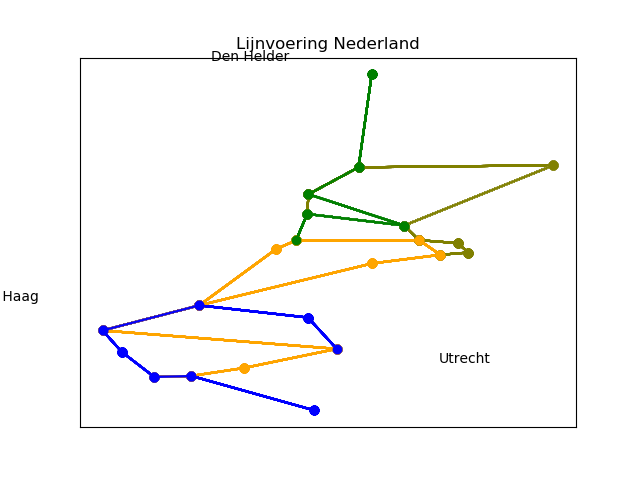
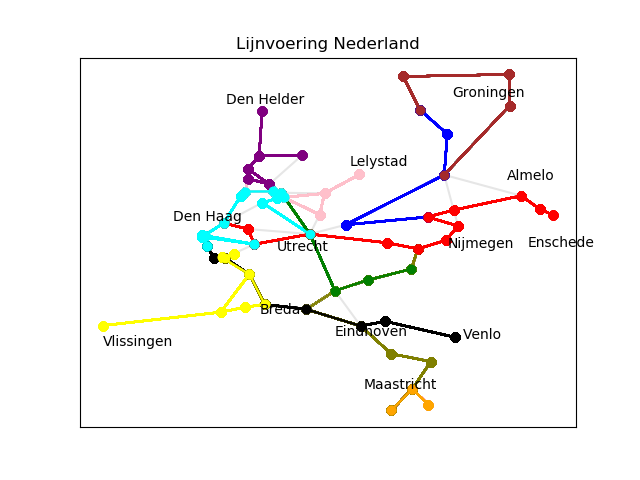
'h'

diff --git a/RailNL/Code/algo/trajectmaker.py b/RailNL/Code/algo/trajectmaker.py
@@ -29,7 +29,7 @@ def traject_maker(RANGE, MAX, stations, verbindingen, uithoeken, graph, TOTAAL_S
     for i in range (RANGE):
         
         # Kies het start station. 
-        START = algo.start.kies_start(sporen, verbindingen, uithoeken, trajecten_algemeen, stations)
+        START = algo.start.kies_start3(sporen, verbindingen, uithoeken, trajecten_algemeen, stations)
         z = START
         
         trein = functies.functies.Trein([START], [START], [z], 0)    
@@ -43,7 +43,7 @@ def traject_maker(RANGE, MAX, stations, verbindingen, uithoeken, graph, TOTAAL_S
 
             else:
                 # Beste optie kiezen aan de hand van de mogelijkheden.
-                beste_optie = trein.opties_nearest(sporen, graph, trajecten_algemeen, trein.eindstation[0])
+                beste_optie = trein.opties_randomconstr(sporen, graph, trajecten_algemeen, trein.eindstation[0])
                 
                 # Spoor toevoegen.
                 trein.spoor_toevoegen(sporen, trein.eindstation[0], beste_optie)

diff --git a/RailNL/Code/test.py b/RailNL/Code/test.py
@@ -13,7 +13,6 @@ import inladen.inladen
 import time
 import visualisatie.lijnvoeringtest
 
-
 # Houd de tijd bij. 
 start_time = time.clock()
 
@@ -22,19 +21,17 @@ start_time = time.clock()
 
 # AANTAL MINUTEN
 
-HILL = 20
+HILL = 12000
 
 # Aantal minuten.
-
-MAX = 120
-
+MAX = 180
 
 # Aantal trajecten.
-RANGE = 4
+RANGE = 11
  
 # Te gebruiken CSV's. 
-STATIONS = 'Data/StationsHolland.csv'
-VERBINDINGEN = 'Data/ConnectiesHolland.csv' 
+STATIONS = 'Data/StationsNationaal.csv'
+VERBINDINGEN = 'Data/ConnectiesNationaal.csv' 
 
 # Pak de gebruikte lists.
 stations = inladen.inladen.stations(STATIONS)

diff --git a/RailNL/Code/algo/hillclimber.py b/RailNL/Code/algo/hillclimber.py
@@ -48,7 +48,7 @@ def hillclimber(score1, alle_trajecten1, alle_tijdsduur1, HILL, RANGE, MAX, stat
 
                     # Beste optie kiezen aan de hand van de mogelijkheden.
 
-                    beste_optie = trein.opties_nearest(sporen, graph, trajecten_algemeen, trein.eindstation[0])
+                    beste_optie = trein.opties_randomconstr(sporen, graph, trajecten_algemeen, trein.eindstation[0])
                     #Spoor toevoegen.
 
                     trein.spoor_toevoegen(sporen, trein.eindstation[0], beste_optie)

diff --git a/RailNL/Code/functies/scorefunctie.py b/RailNL/Code/functies/scorefunctie.py
@@ -33,6 +33,6 @@ def score(alle_trajecten, totale_tijdsduur, sporen, totaal_sporen):
     # Bereken percentage gebruikte sporen.
     p = gebruikte_sporen / totaal_sporen
 
-    score = p*10000 - (t*20 + min/1) 
+    score = p*10000 - (t*20 + min/10000) 
     
     return score
